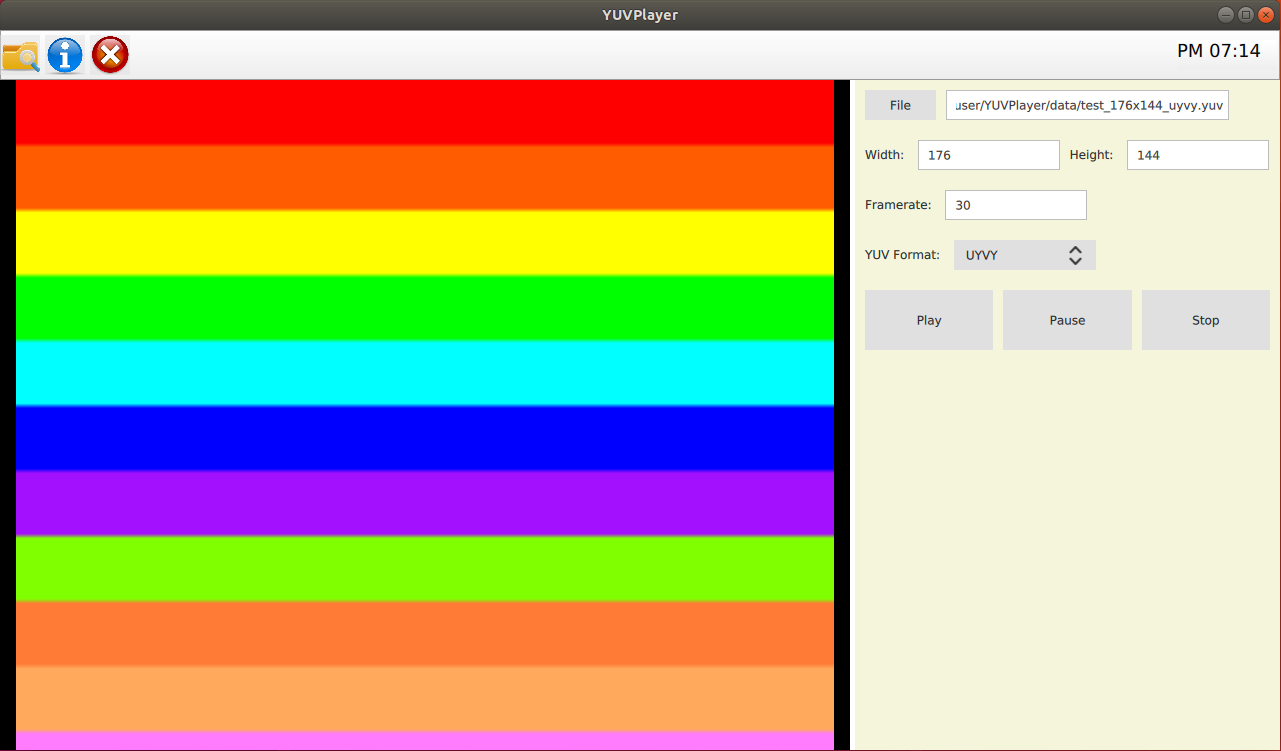
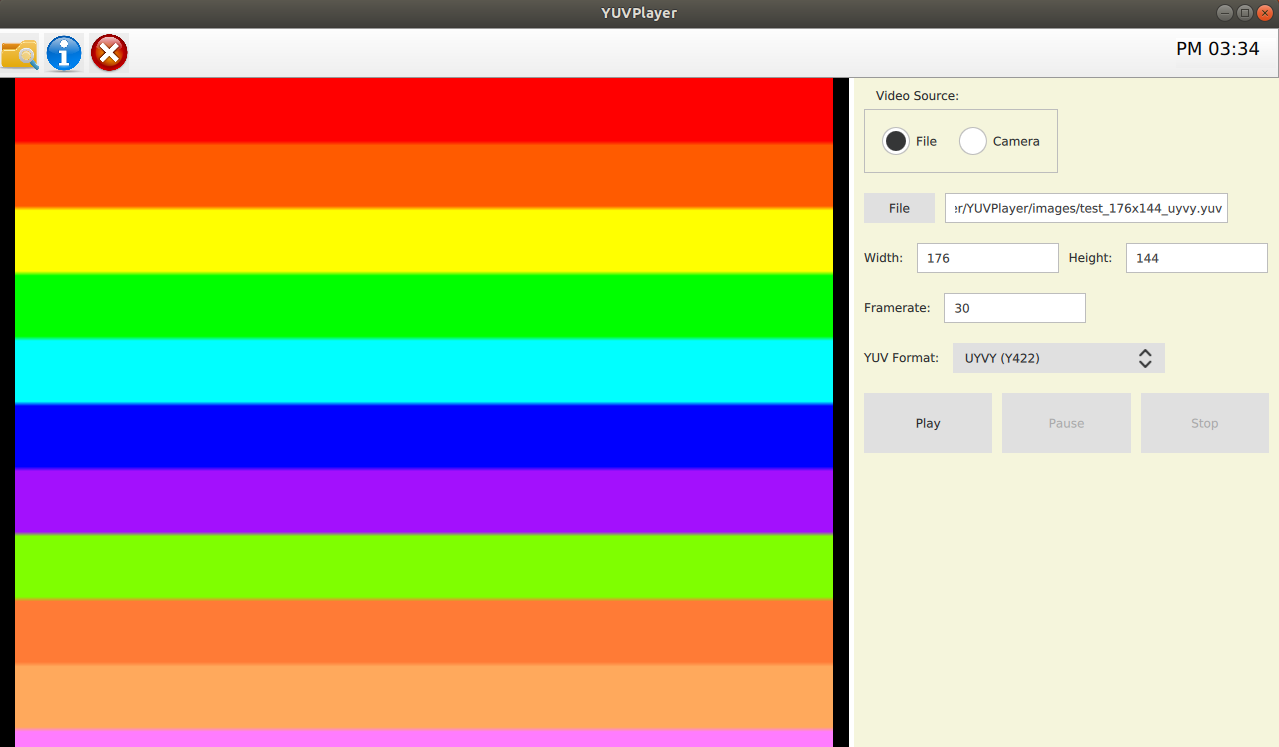
fix: file image show error

diff --git a/src/resources/components/PlayerBox.qml b/src/resources/components/PlayerBox.qml
@@ -229,9 +229,8 @@ Rectangle {
                                 stopBtn.enabled = true;
                                 var format = yuvFiled.currentText.split(' ')[0];
 
-                                console.log(file)
-
                                 var config = {
+                                    'mode': mode,
                                     'file': file,
                                     'width': widthFiled.text,
                                     'height': heightFiled.text,
@@ -239,7 +238,7 @@ Rectangle {
                                     'format': format
                                 };
 
-                                player.play(mode, config);
+                                player.play(config);
                             }
                         }
                     }

diff --git a/src/threads/backend_thread.cpp b/src/threads/backend_thread.cpp
@@ -5,10 +5,10 @@
 
 BackendThread::BackendThread(QObject *parent) : QObject(parent) {}
 
-void BackendThread::opencvStart(QString mode, QMap<QString, QVariant> config) {
+void BackendThread::opencvStart(QMap<QString, QVariant> config) {
   qDebug() << ">>> [Backend] OpenCV Thread Start <<<";
   QThread *thread = new QThread(0);
-  OpenCVThread *worker = new OpenCVThread(mode, config);
+  OpenCVThread *worker = new OpenCVThread(config);
   threads["OpenCV"] = thread;
   workers["OpenCV"] = QVariant::fromValue(worker);
   worker->moveToThread(thread);

diff --git a/src/app/my_media_player.cpp b/src/app/my_media_player.cpp
@@ -102,8 +102,8 @@ void MyMediaPlayer::showYUV(cv::Mat curr_frame) {
       new YUVBuffer(m), QSize(curr_frame.cols, curr_frame.rows), frame_format));
 }
 
-void MyMediaPlayer::play(QString mode, QMap<QString, QVariant> config) {
-  m_backend->opencvStart(mode, config);
+void MyMediaPlayer::play(QMap<QString, QVariant> config) {
+  m_backend->opencvStart(config);
 }
 
 void MyMediaPlayer::pause() { m_backend->opencvPause(); }

diff --git a/src/app/my_media_player.h b/src/app/my_media_player.h
@@ -42,7 +42,7 @@ class MyMediaPlayer : public QObject {
   Q_PROPERTY(QAbstractVideoSurface *videoSurface READ videoSurface WRITE setVideoSurface NOTIFY surfaceChanged)
 
  public:
-  Q_INVOKABLE void play(QString mode, QMap<QString, QVariant> config);
+  Q_INVOKABLE void play(QMap<QString, QVariant> config);
   Q_INVOKABLE void pause();
   Q_INVOKABLE void stop();
 

diff --git a/src/threads/opencv_thread.cpp b/src/threads/opencv_thread.cpp
@@ -8,7 +8,7 @@
 
 using namespace std;
 
-OpenCVThread::OpenCVThread(QString mode, QMap<QString, QVariant> config, QObject *parent)
+OpenCVThread::OpenCVThread(QMap<QString, QVariant> config, QObject *parent)
     : QObject(parent), isRunning(false), isPausing(false) {
 
   this->mode = config["mode"].toString().toStdString();

diff --git a/src/threads/opencv_thread.h b/src/threads/opencv_thread.h
@@ -15,7 +15,7 @@ class OpenCVThread : public QObject {
   Q_OBJECT
 
  public:
-  explicit OpenCVThread(QString mode, QMap<QString, QVariant> config, QObject *parent = nullptr);
+  explicit OpenCVThread(QMap<QString, QVariant> config, QObject *parent = nullptr);
   ~OpenCVThread(){};
 
  public slots:

diff --git a/src/threads/backend_thread.h b/src/threads/backend_thread.h
@@ -17,7 +17,7 @@ class BackendThread : public QObject {
   ~BackendThread(){};
 
  public slots:
-  void opencvStart(QString mode, QMap<QString, QVariant> config);
+  void opencvStart(QMap<QString, QVariant> config);
   void opencvStop();
   void opencvPause();
 
